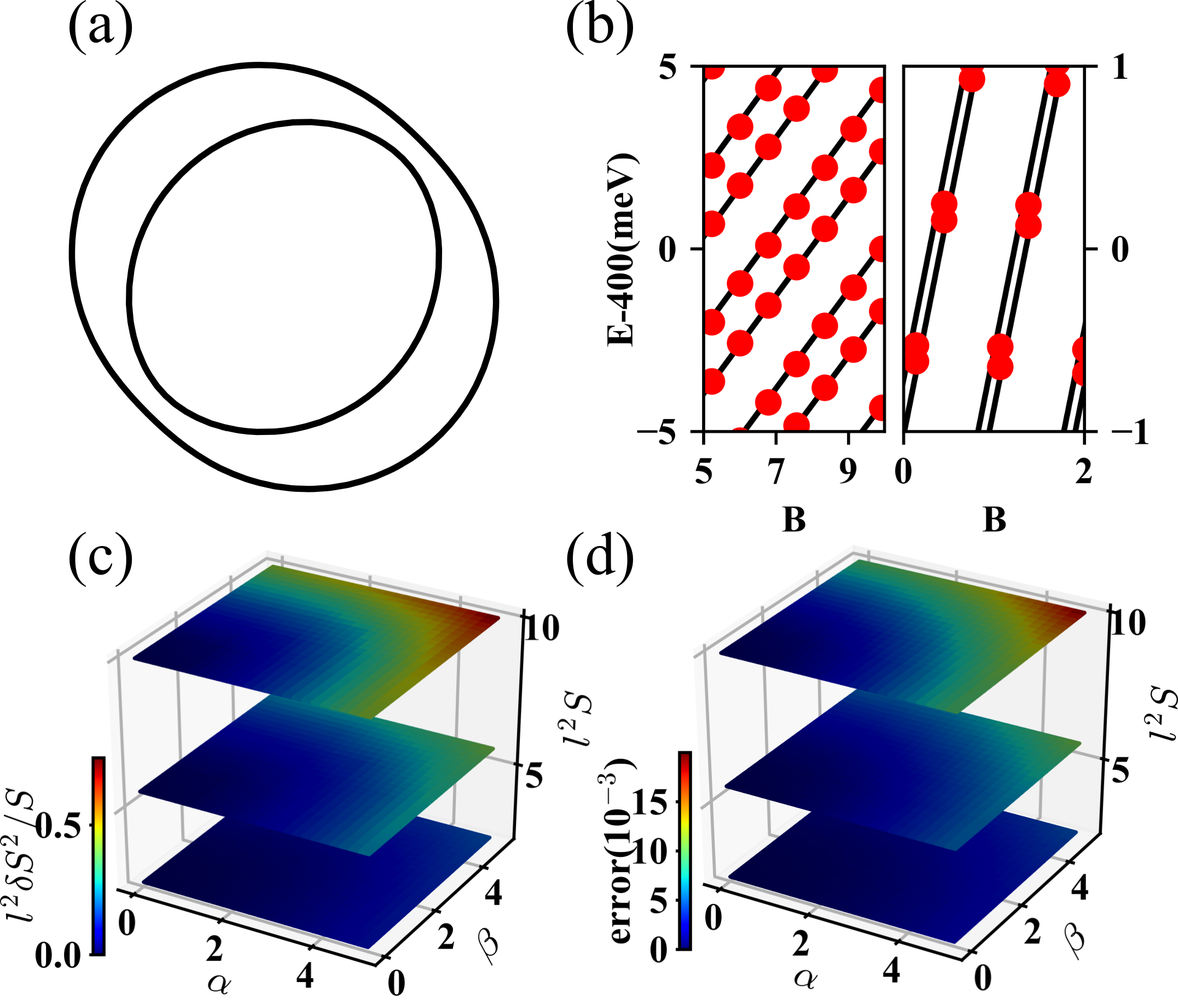
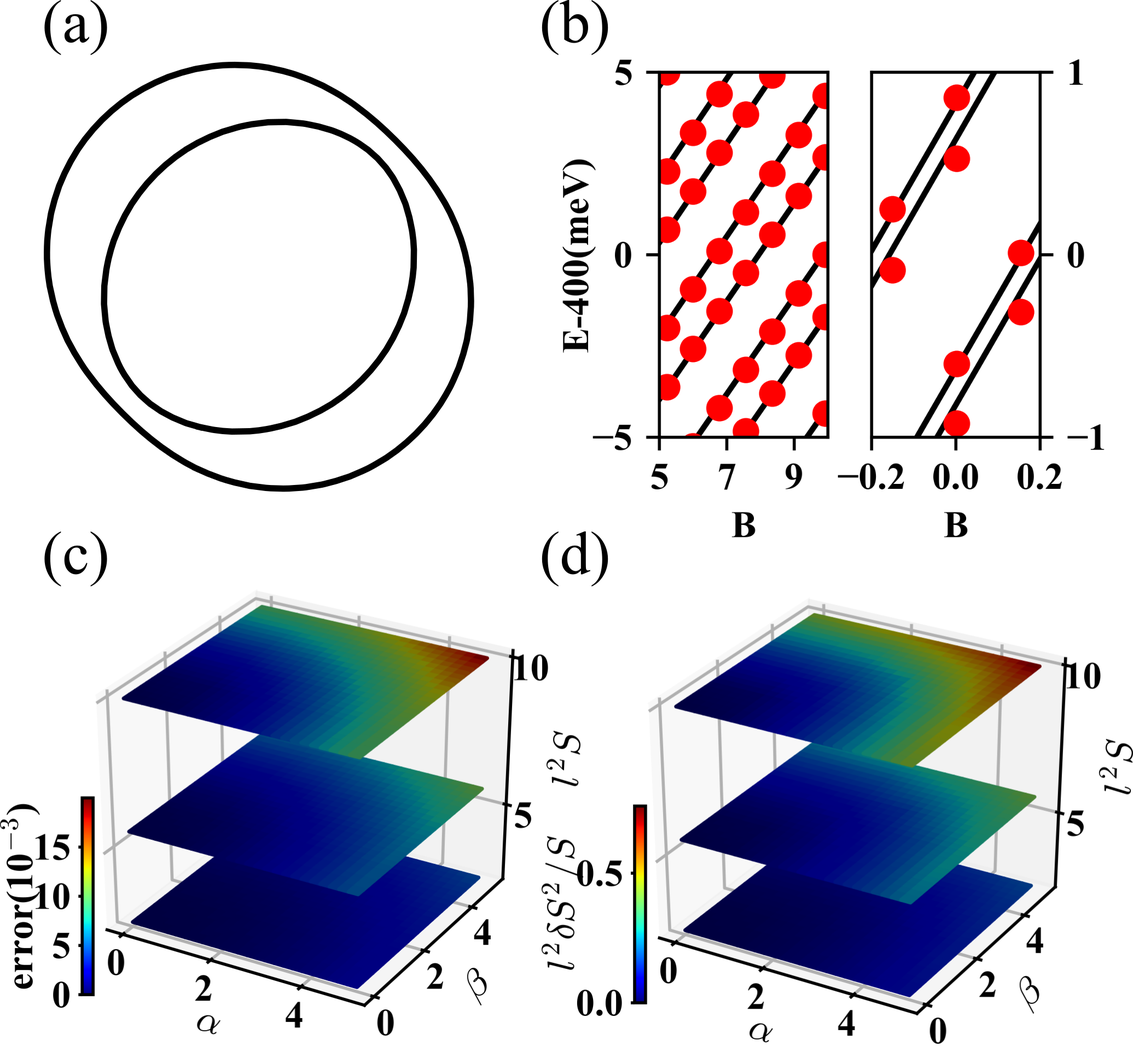
progress

diff --git a/paper.tex b/paper.tex
@@ -49,26 +49,26 @@ Department of Physics, Yale University, New Haven, Connecticut 06520, USA}
 
 %In this work, we study quasidegenerate orbits and formulate Bohr-Sommerfield quantization rule for them. We find the tunneling between the orbits can be described by a propagator and compare the quantization rule to Landau levels from exact diagonalization. Finally, we discuss experimental signatures of such tunneling.
 
-In the absence of magnetic breakdown, semiclassical quantization rules are well-known for Landau levels of  both nondegenerate [Onsager, Lifshitz] and degenerate [Roth, Mikitik, Topoferm, 100page] energy bands.  Our work generalizes these rules to nearly-degenerate bands, whose orbits are split in $\bk$-space with a differential area  $\delta S$ that is much less than the average area $S$ of the orbits; we shall refer to $\delta S/S{\ll}1$ as the \textit{quasidegeneracy} condition. Quasidegenerate orbits commonly originate from spin-orbit-splitting of energy bands in noncentrosymmetric solids. We provide an illustrative model of  a 2DEG with Rashba spin-orbit coupling:
+In the absence of magnetic breakdown, semiclassical quantization rules are well-known for Landau levels of  both nondegenerate [Onsager, Lifshitz] and degenerate [Roth, Mikitik, Topoferm, 100page] energy bands. Our work generalizes these rules to nearly-degenerate bands, whose orbits are split in $\bk$-space with a differential area  $\delta S$ that is much less than the average area $S$ of the orbits; we shall refer to $\delta S/S{\ll}1$ as the \textit{quasidegeneracy} condition. Quasidegenerate orbits commonly originate from spin-orbit-splitting of energy bands in noncentrosymmetric solids. We provide an illustrative model of  a 2DEG with Rashba spin-orbit coupling:
 \begin{equation}
 H_R=\frac{{\hbar^2} k^2}{2m}+\alpha  (k_{x}\sigma_{y}-k_{y}\sigma_{x}).\label{eq:Rashba-Hamiltonian}
 \end{equation}
-At energies much greater than $m\alpha^2$, the differential area of the two spin-orbit-split orbits [see Fig. \ref{fig:orbits}(a)] is much smaller than their average area:\footnote{The expressions for $\delta S$ and $S$ in \q{deltaSvsS} are asymptotically valid  for $E{\gg}m\alpha^2$.}
-\e{\delta S = 2\pi k_E \f{2\alpha m}{\hbar} \ll  S =\pi k_E^2; \;\; k_{E}:=\f{\sqrt{2m E}}{\hbar} .\la{deltaSvsS}}
+At energies much greater than $m\alpha^2$, the differential area of the two spin-orbit-split orbits [see Fig. \ref{fig:orbits}(a)] is much smaller than their average area:\footnote{The expressions for $\delta S$ and $S$ in \q{deltaSvsS} are asymptotically valid for $E{\gg}m\alpha^2$.}
+\e{\delta S = 2\pi k_E \f{2\alpha m}{\hbar^2} \ll S =\pi k_E^2; \;\; k_{E}:=\f{\sqrt{2m E}}{\hbar} .\la{deltaSvsS}}
 $S$ is equivalently the area of the circular, constant-energy contour in the absence of spin-orbit coupling ($\alpha{=}0$).
 
-Throughout this work we will treat both $\delta S/S$ and $1/l^2S$  as small parameters with finite ratio $l^2\delta S$ \textbf{[define magnetic length]}. Our perspective diverges from and generalizes previous semiclassical theories [Kohn, Blount, Roth, Wannier, Fredkin, Niu, Mikitik, topoferm, 100page] having only a single small parameter ($B$).  
+Semiclassical quantization rules work in semiclassical regime where magnetic length $l=\sqrt{\hbar/eB}$ is much larger than characteristic length of cyclotron motion in $\bk$-space, i.e., $1/l^2 S\ll 1$. This condition is assumed by previous semiclassical theories. [Kohn, Blount, Roth, Wannier, Fredkin, Niu, Mikitik, topoferm, 100page] As a generalization, we will treat $\delta S/S$ as an extra small parameters throughout this work with finite ratio $l^2\delta S$. 
 
 $(l^2\delta S)^{-1}$ is a measure of the field-induced hybridization of the quasidegenerate orbits, and shall be called the hybridization parameter. 
-In the regime that $l^2\delta S$ is much greater than the Zeeman interaction, we expect that the Onsager-Lifshitz quantization rules apply independently to the two concentric (but decoupled) orbits. In the opposite regime, we should recover the known quantization rule for degenerate orbits. [topoferm, 100p, roth, mikitik] Our goal is to present a unifying rule that interpolates smoothly between the two known regimes.
+In the regime that $l^2\delta S$ is much greater than the Zeeman interaction \red{[Zeeman interaction? Why not just 1.]}, we expect that the Onsager-Lifshitz quantization rules apply independently to the two concentric (but decoupled) orbits. In the opposite regime, we should recover the known quantization rule for degenerate orbits. [topoferm, 100p, roth, mikitik] Our goal is to present a unifying rule that interpolates smoothly between the two known regimes.
 
 \section{Quantization Rule\label{sec:qtznrules}}
 
-Let us heuristically argue for the form of such a rule; a more pedagogical and rigorous approach is elaborated in App. \ref{app:quantizationruleproof}. We consider independent electrons described (at zero field) by a translation-invariant Hamiltonian: $\hat{H}_0{+}\delta \hat{H}$. This decomposition is such that energy bands of $\hat{H}_0$ are $D$-fold degenerate at every crystal wavevector $\bk$, while $\delta \hat{H}$ is a weak perturbation that lifts this degeneracy at generic $\bk$. For conceptual simplicity, we focus on $D{=}2$ spin degeneracy, and postpone the general formulation for $D{\geq}2$ to Appendix \ref{app:quantizationruleproof}.  $\hat{H}_0$ is commonly exemplified by  the Schr\"odinger Hamiltonian, and $\delta H$ by a non-centrosymmetric spin-orbit interaction; alternatively, $\hat{H}_0$ may be a centrosymmetric Pauli Hamiltonian (complete with spin-orbit coupling), while $\delta H$ describes a lattice deformation that breaks the spatial-inversion symmetry.  
+Let us heuristically argue for the form of such a rule; a more pedagogical and rigorous approach is elaborated in App. \ref{app:quantizationruleproof}. We consider independent electrons described (at zero field) by a translation-invariant Hamiltonian: $\hat{H}_0{+}\delta \hat{H}$. This decomposition is such that energy bands of $\hat{H}_0$ are $D$-fold degenerate at every crystal wavevector $\bk$, while $\delta \hat{H}$ is a weak perturbation that lifts this degeneracy at generic $\bk$. For conceptual simplicity, we focus on $D{=}2$ spin degeneracy, and postpone the general formulation for $D{\geq}2$ to App. \ref{app:quantizationruleproof}.  $\hat{H}_0$ is commonly exemplified by  the Schr\"odinger Hamiltonian, and $\delta H$ by a non-centrosymmetric spin-orbit interaction; alternatively, $\hat{H}_0$ may be a centrosymmetric Pauli Hamiltonian (with spin-orbit coupling), while $\delta H$ describes a lattice deformation that breaks the spatial-inversion symmetry.  
 
 % The quantum theory of a Bloch electron in a magnetic field is based on the noncommutivity of the kinematic quasimomentum operators:[onsager, lifshitz]
 
-Let us apply a magnetic field, and first consider the spin-degenerate Landau levels obtained by neglecting both $\delta H$ and the Zeeman splitting. In the  semiclassical description,  we are interested in  field-induced dynamics within a low-energy degenerate band of $\hat{H}_0$ with  dispersion $\var(\bk)$, e.g., $\var(\bk){=}\hbar^2 \bk^2/2m{+}O(k^4)$ in the Rashba model.    Landau quantization is well-known to derive from the Peierls substitution $\var(\bk){\rightarrow}\var(\bK)$,[Peierls] with   the kinematic quasimomentum operator   $\boldsymbol{K}{:}{=}\boldsymbol{k}{+}(e/\hbar) \boldsymbol{A}(i\nabla_{\boldsymbol{k}})$ and $\boldsymbol{A}(\br)$ being the electromagnetic vector potential. Assuming that the field is aligned in the ${-}z$ direction, $[K_x,K_y]{=}i\lmt$ with the magnetic length $l{:}{=}\sqrt{\hbar/{eB}}$. The semiclassical solution corresponds to  cyclotron revolutions of an electron around a constant-energy contour of $\var(\bk)$ [see Fig. \ref{fig:orbits}(b)]]; this contour, equipped with an orientation given by the equation of motion ($ \hbar dk_{\alpha}/dt {=} \lmt \epsilon_{\ab}\partial \var/\partial k_{\beta} $, with $\epsilon_{xy}{=}{-}\epsilon_{yx}{=}1$), shall be referred as the zeroth-order orbit $\frako_0$.  In this work, we focus only on closed orbits which do not wrap 
+Let us apply a magnetic field, and first consider the spin-degenerate Landau levels obtained by neglecting both $\delta H$ and the Zeeman splitting. In the  semiclassical description,  we are interested in  field-induced dynamics within a low-energy degenerate band of $\hat{H}_0$ with  dispersion $\var(\bk)$, e.g., $\var(\bk){=}\hbar^2 k^2/2m{+}\order(k^4)$ \red{[What is contained in this $\order(k^4)$?]}in the Rashba model.    Landau quantization is well-known to derive from the Peierls substitution $\var(\bk){\rightarrow}\var(\bK)$, [Peierls] with the kinematic quasimomentum operator   $\boldsymbol{K}{:}{=}\boldsymbol{k}{+}(e/\hbar) \boldsymbol{A}(i\nabla_{\boldsymbol{k}})$ and $\boldsymbol{A}(\br)$ being the electromagnetic vector potential. Assuming that the field is aligned in the ${-}z$ direction, $[K_x,K_y]{=}i\lmt$. The semiclassical solution corresponds to  cyclotron revolutions of an electron around a constant-energy contour of $\var(\bk)$ [see Fig. \ref{fig:orbits}(b)]]; this contour, equipped with an orientation given by the equation of motion ($ \hbar dk_{\alpha}/dt {=} \lmt \epsilon_{\ab}\partial \var/\partial k_{\beta} $, with $\epsilon_{xy}{=}{-}\epsilon_{yx}{=}1$), shall be referred as the zeroth-order orbit $\frako_0$.  In this work, we focus only on closed orbits which do not wrap 
 non-contractibly around the Brillouin torus.
 
 %(in $\bk$ space)  defined at zero spin-orbit coupling [$\alpha{=}0$; see Fig. \ref{fig:orbits}(b)]. This cyclotron motion obeys the equation of motion:  $ \hbar dk_{\alpha}/dt = \lmt \epsilon_{\ab}\partial \var/\partial k_{\beta} $, with $\epsilon_{xy}{=}{-}\epsilon_{yx}{=}1$. The spin-orbit-free band contour, equipped with an orientation given by the equation of motion, shall be referred as the zeroth-order orbit $\frako_0$. In this work, we focus only on orbits which are closed, i.e., orbits that do not cross the Brillouin-zone edge.
@@ -81,7 +81,7 @@ Here, $\var_c$ and $T_c$ are respectively the cyclotron energy and period of the
 
 %rather than the ever-present macroscopic degeneracy associated to the cyclotron motion of a single species of fermions. 
 
-To the first order, $\delta H$ and the Zeeman interaction  induce a subleading phase offset ($\lambda_a$) which generically differs for the two orthogonal spinor states (labelled $a{=}1,2$):
+To the first order, $\delta \hat{H}$ and the Zeeman interaction induce a subleading phase offset ($\lambda_a$) which generically differs for the two orthogonal spinor states (labelled $a{=}1,2$):
 \begin{equation}
 l^2S(E)+\lambda_a(E,B)+\gamma=2\pi n,\as  n\in \mathbb{Z},\;a=1,2. \label{eq:rule}
 \end{equation}
@@ -94,17 +94,17 @@ with $\bk(t){\in}\frako_0$ a periodic function determined by the semiclassical e
 \begin{equation}
   \calh=\delta \var +B\bigg(M_z -g_s\mu_{B}\f{s_z}{\hbar} + e\epsilon_{\alpha\beta}\mathfrak{X}_{\beta}v_{\alpha}\bigg):=\delta \var+B\calm,\label{eq:H1}
 \end{equation}
-$\delta \var$ is the projection of $\delta H$ to the quasidegenerate band associated to $\var(\bk)$, e.g., $\delta \var{=}\alpha(k_x\sigma_y{-}k_y\sigma_x)$ in the Rashba model. In the basis of energy-split bands (which we label by  ${+}$ and $-$ for the outer and inner orbit respectively),\footnote{We remark that the quantization rule is invariant under basis transformations within the degenerate band subspace (See App. \ref{app:quantizationruleproof}); this may be exploited for efficient  numerical computations.} $\delta \var$ is a diagonal matrix whose diagonal entries ($\delta \var_+,\delta \var_-$) are related to  the hybridization parameter:\footnote{The neglected term on the right-hand side of  \q{spinsplitwkb} is smaller (than the kept term) by a factor $\delta v_{\pm}/v$, which is the relative change in band speed $v=|\boldsymbol{v}|=\hbar^{-1}|\partial \var/\partial \bk|$ induced by the spin-orbit coupling. This factor is assumed to be small.  For example in the Rashba model, $\delta v_{\pm}/v=m\alpha/\hbar k_E{\sim}\delta S/S{\ll}1$.}   
-\e{\int_0^{T_c} (\delta \var_+{-}\delta \var_-) \frac{dt}{\hbar} \approx l^2\delta S. \la{spinsplitwkb}}
+$\delta \var$ is the projection of $\delta H$ to the quasidegenerate band associated to $\var(\bk)$, e.g., $\delta \var{=}\alpha(k_x\sigma_y{-}k_y\sigma_x)$ in the Rashba model. In the basis of energy-split bands (which we label by  ${+}$ and $-$ for the outer and inner orbit respectively),\footnote{We remark that the quantization rule is invariant under basis transformations within the degenerate band subspace (See App. \ref{app:quantizationruleproof}); this may be exploited for efficient numerical computations.} $\delta \var$ is a diagonal matrix whose diagonal entries ($\delta \var_+,\delta \var_-$, corresponding to outer and inner orbit respectively; $\delta \var_+<\delta \var_-$) are related to the hybridization parameter:\footnote{The neglected term on the right-hand side of  \q{spinsplitwkb} is smaller (than the kept term) by a factor $\delta v_{\pm}/v$, which is the relative change in band speed $v=|\boldsymbol{v}|=\hbar^{-1}|\partial \var/\partial \bk|$ induced by the spin-orbit coupling. This factor is assumed to be small.  For example in the Rashba model, $\delta v_{\pm}/v=m\alpha/\hbar k_E{\sim}\delta S/S{\ll}1$.}   
+\e{-\int_0^{T_c} (\delta \var_+{-}\delta \var_-) \frac{dt}{\hbar} \approx l^2\delta S. \la{spinsplitwkb}}
 %In the  Rashba model,   $\delta \var_{\pm}(E){=}{\pm} (\alpha/\hbar)\sqrt{2mE}$ is independent of $\bk$ due to a continuous rotational symmetry of $H_R$. \\
 
 %the wavepacket;  $g_s{\approx}2$ is the free-electron $g$-factor and $\mu_B$ the Bohr magneton.[100page] 
 %Spin in $z$ direction is represented by $s_z=\hbar\sigma_z/2$ \textbf{[detail]}.
 
 
-The remaining terms in \q{eq:H1} describe a generalized Zeeman interaction $B\calm$ which is the first-order-in-$B$ correction to the Peierls-Onsager Hamiltonian $\var(\bK)$.[kohn,blount,roth] Included in this interaction is the Zeeman coupling to the spin ($g_s\mu_Bs_z/\hbar$) and orbital ($M_z$) magnetic moment of the quasidegenerate band; the latter  is expressible in terms of matrix elements of the velocity operator \textbf{[please insert definition of v from below eq 3 in topoferm]}:
+The remaining terms in \q{eq:H1} describe a generalized Zeeman interaction $B\calm$ which is the first-order-in-$B$ correction to the Peierls-Onsager Hamiltonian $\var(\bK)$.[kohn,blount,roth] Included in this interaction is the Zeeman coupling to the spin ($g_s\mu_Bs_z/\hbar$) and orbital ($M_z$) magnetic moment of the quasidegenerate band; the latter is expressible in terms of matrix elements of the velocity operator $\boldsymbol{\Pi}$ between Bloch wave functions $\psi_{n\bk}$ $\boldsymbol{\Pi}_{mn}=i\langle\psi_m|[\hat{H}, \hat{\boldsymbol{r}}]|\psi_n\rangle/\hbar$:
 \e{
-M_z=\f{ie\hbar}{2}\sum_l'\f{v_{x,ml}v_{y,ln}-v_{y,ml}v_{x,ln}}{\epsilon_m-\epsilon_l}. \la{eq:orbitalmoment}
+M_z=\f{ie\hbar}{2}\sum_l'\f{\Pi_{x,ml}\Pi_{y,ln}-\Pi_{y,ml}\Pi_{x,ln}}{\epsilon_m-\epsilon_l}. \la{eq:orbitalmoment}
 }
 Here, the summation in $l$ does not include the two quasidegenerate bands.  There is finally a geometric contribution to the Zeeman interaction, which involves the two-by-two non-Abelian Berry connection  as well as the  zeroth-order band velocity: 
 \e{\mathfrak{X}_{\beta,mn}{=}i\braket{u_m}{\partial u_n/\partial k_{\beta}},  \;\;v_{\alpha}:= \red{\f{1}{\hbar}}\p{\var}{k_{\alpha}},\la{berryconn}}
@@ -112,7 +112,7 @@ with $\{u_n\}_{n=1}^2$ the periodic component of Bloch functions in the quasideg
 %which provides a geometric characterization of band wavefunctions along $\frako_0$.\\
 %All matrix elements in \qq{eq:prop}{eq:orbitalmoment} are evaluated with wavefunctions of $\hat{H}_0$. 
 
-\qq{eq:rule}{berryconn} allow us to determine $\lambda_{1,2}$ to the lowest order  in $1/l^2S$ and $\delta S/S$, and for arbitrary values of $l^2\delta S$ and $||B\calm||/\delta \var_{\pm}$.
+\qq{eq:rule}{berryconn} allow us to determine $\lambda_{1,2}$ to the lowest order  in $1/l^2S$ and $\delta S/S$, and for arbitrary values of $l^2\delta S$ and $|B\calm|/\delta \var_{\pm}$.
 
 %It will be useful to separate $B$-independent and $B$-dependent terms in \q{eq:H1}; the latter we denote as $B\calm$, with $\calm$ having the dimension of a magnetic moment. Let us explain each term in the order of its appearance.\\
 
@@ -132,7 +132,7 @@ It is useful to compare $\delta \var$ with $B\calm$ in the basis of energy-split
 
 \noi{i} If $|\var_+{-}\var_-|$ is everywhere (along $\frako_0$) much greater than $B|\calm_{+-}|$, then an electron would undergo adiabatic (band-conserving) dynamics[nenciu] along two independent, nondegenerate orbits. Such an adiabatic regime always exists as $B{\rightarrow} 0$ for quasidegenerate orbits that do not intersect, e.g, at a type-II Dirac point, which is the subject of the case studies in \s{sec:inplanezeeman} and \s{sec:rotsymmbreakdown}.
 By  neglecting  $B\calm_{+-}$ in favor of intraband elements,  $\cala$ reduces to a diagonal matrix with  diagonal entries ($e^{i\lambda_{\pm}}$) given by:
-\e{\lambda_{\sma{\pm}} = \int_0^{T_c}\calh_{\sma{\pm\pm}}dt=\pm \tf1{2}l^2\delta S +B\int_0^{T_c}\calm_{\sma{\pm\pm}}dt.  \la{phaseindependentorbit}} 
+\e{\lambda_{\sma{\pm}} = -\int_0^{T_c}\calh_{\sma{\pm\pm}}\f{dt}{\hbar}=\pm \f{1}{2}l^2\delta S - B\int_0^{T_c}\calm_{\sma{\pm\pm}}\f{dt}{\hbar}.  \la{phaseindependentorbit}} 
 In the second equality, we have applied \q{spinsplitwkb} and assumed that 
  $\delta \var$ is traceless (this assumption is  valid for splittings of a spin degeneracy\footnote{The Pauli spin-orbit coupling term ${\propto} \bs{\cdot} (\bE {\times} \bp)$ (that is derived from the non-relativistic limit of the Dirac equation) is  traceless in any spin-symmetric  (pseudo-)spinor basis.  Viewing the spin-orbit coupling as a small parameter in degenerate perturbation theory, the lowest-order splitting of any spin-degenerate energy level is always symmetric about the zeroth-order energy. This follows because the zeroth-order, spin-symmetric wavefunctions (associated to a spin-degenerate level) are tensor products of spin and spatial wavefunctions: $\ket{\Psi_{\pm}}{:}{=}\ket{{\pm}\hat{n}}{\otimes} \ket{\psi}$ with $\hat{n}$ a unit vector and  $\bs{\cdot} \hat{n} \ket{{\pm}\hat{n}}{=}{\pm}\ket{\pm \hat{n}}$. Hence, $\braopket{\Psi_{\pm}}{\bs{\cdot} (\bE {\times} \bp)}{\Psi_{\pm}}{=}{\pm}\hat{n}\cdot\braopket{\psi}{\bE {\times} \bp}{\psi}$. \textbf{Please generalize above proof to the case where H0 already includes centrosymmetric SOC. }}).  \q{eq:rule}, combined with \q{phaseindependentorbit}, may be identified as the Onsager-Lifshitz rule[onsager,lifshitz] for  two independent, nondegenerate orbits of areas $S{\pm}\delta S$, and with subleading phase corrections that were first identified by Roth[rothII].\footnote{We remark that \q{phaseindependentorbit} neglects the contribution by band $-$ to the orbital moment of band $+$: $\delta M_z=il^{-2}\epsilon_{\ab}(\delta \var_+-\delta \var_-)\mathfrak{X}^{\alpha}_{+-}\mathfrak{X}^{\beta}_{-+}$. $\mathfrak{X}^{\alpha}_{+-}$, being an off-diagonal matrix element of the position operator, is generically of order a lattice constant $a$. We then estimate $\int_0^{T_c} B\delta M_z dt/\hbar=O(a^2 \delta S )$, which is negligible compared to $l^2\delta S/2$. Note also that the single-band orbital moment simply vanishes in some symmetry classes of orbits.[100page] } The perturbative inclusion of $B\calm_{\sma{+-}}$ results in  a correction to $\lambda_{\pm}$ [cf.\ \q{phaseindependentorbit}] that is expressible as a power series in $B$, with a leading term proportional to $B$; this will be confirmed in a subsequent case study [cf.\ \q{lambdasmallB}] and applied to understand beatings in quantum-oscillatory phenomena in  \s{sec:qo}.    \\
 
@@ -192,24 +192,24 @@ In \s{sec:llquasideg}, we investigate how many real parameters are required to t
 We will first apply our rule to the Landau levels of the Rashba model [cf.\ \q{eq:Rashba-Hamiltonian}], for which analytic expressions exist for verification; shortly after we will demonstrate the utility of our quantization rule for the 2DEG with both Rashba and Dresselhaus spin-orbit interactions, for which there exists no known analytic closed-form solution. 
 
 For simplicity, we assume that the Pauli matrices in \q{eq:Rashba-Hamiltonian} correspond to spin: $s_i{=}\hbar \sigma_i/2$. Let us evaluate the effective Hamiltonian $\calh(\bk)$  along the cyclotron trajectory $\frako_0$ with radius $k$. In the  energy basis of the Rashba Hamiltonian $H_R$ [cf.\ \q{eq:Rashba-Hamiltonian}], 
-\e{\calh(\bk)=\alpha k\tau_z{+}\f{g_s}{2}\mu_{\sma{B}}B\tau_x \red{-} \f{eB\red{\hbar}}{2m} (\tau_x-I) \epsilon_{\alpha\beta} k_{\red{\alpha}}\nabla_{\red{\beta}}\theta,\la{rashbaeffham}}
+\e{\calh(\bk)=-\alpha k\tau_z{+}\f{g_s}{2}\mu_{\sma{B}}B\tau_x \red{-} \f{eB\hbar}{2m} (\tau_x-I) \epsilon_{\alpha\beta} k_{\red{\alpha}}\nabla_{\red{\beta}}\theta,\la{rashbaeffham}}
 where $\tau_i$ are a new set of Pauli matrices with $\tau_z{=}{+} 1$ and ${-}1$ corresponding to the outer and inner orbits, respectively \red{[I switched the sign in the equation above to emphasize the sign difference.]}. $e^{i\theta_{\bk}}{=}(ik_x{-}k_y)/k$ is the angle of the in-plane spin-orbit field $({-}\alpha k_y,\alpha k_x,0)$, which winds once over $\frako_0$; the spin of our basis vectors likewise winds, in parallel (or anti-parallel) alignment with this field (see Fig. (\ref{fig:orbits})(b)). Terms proportional to the rate of spin rotation  ($\nabk \theta$) originate from the  non-abelian Berry connection. The first term of  $\calh$ corresponds to the spin-orbit-induced splitting of the energy-degenerate bands;
-the remaining terms may be interpreted as B-induced deformations of the bands.   It is well-known that the Zeeman term tends to polarize spin in the direction ($\vec{z}$) of $\bB$; remarkably, the non-abelian Berry term   also has a polarizing effect, but with opposite sign. These two effects completely cancel for free electrons ($m{=}m_0$), but not generically in band systems. The orbital moment term $B M_z$, which generally couples the two-band subspace (of interest) to all other bands, is absent in any simplified two-band model.
+the remaining terms may be interpreted as B-induced deformations of the bands.   It is well-known that the Zeeman term tends to polarize spin in the direction ($\vec{z}$) of $\bB$; remarkably, the non-abelian Berry term   also has a polarizing effect, but with opposite sign. These two effects completely cancel for free electrons ($m{=}m_0$, with $m_0$ being free electron mass.), but not generically in band systems. The orbital moment term $B M_z$, which generally couples the two-band subspace (of interest) to all other bands, is absent in any simplified two-band model.
 %Observe that  that $\calh$ is actually time-independent, which originates from a  that is unbroken by the field (aligned with the rotational axis). Consequently, 
 
-Due to the continuous rotational symmetry of $H_R$, $\nabk \theta$ has magnitude $1/k$ and lies tangential to $\frako_0$; consequently, $\calh$ is constant along $\frako_0$, and the propagator simplifies to $\cala{=}e^{{-}i\calh T_c}$ without time-ordering, and the phase corrections to the quantization rule are simply the eigenvalues of $\calh$ multiplied by $T_c$:
+Due to the continuous rotational symmetry of $H_R$, $\nabk \theta$ has magnitude $1/k$ and lies tangential to $\frako_0$; consequently, $\calh$ is constant along $\frako_0$, and the propagator simplifies to $\cala{=}e^{{-}i\calh T_c/\hbar}$ without time-ordering, and the phase corrections to the quantization rule are simply the eigenvalues of $\calh$ multiplied by $T_c$:
 \begin{equation}
 \lambda_{\pm}=\pm\f1{2}\sqrt{({l^2\delta S})^2+\pi^2(g_{\sma{\text{eff}}}-2)^2}+\pi. \label{eq:Rashba-lambda}
 \end{equation}
 This is a function of the differential action $\delta S$ [cf.\ \q{deltaSvsS}] and  the effective  $g$-factor ($g_{\sma{\text{eff}}}{:}{=}g_sm/m_0$), which is the free-electron $g$-factor multiplied with the ratio of  effective ($m$) and free-electron ($m_0$) masses. The standalone $\pi$ term is the single-band Berry phase associated to the winding of $\theta_{\bk}$ by ${\pm}2\pi$. The two quantities under the square root originate from the spin-orbit energy splitting $\delta \var$ and the inter-band matrix elements of $B\calm$ (in the basis of zero-field bands). 
 
-In the weak-hybridization regime: $l^2\delta S {>}\pi(g_{\sma{\text{eff}}}{-}2)$, we may expand \q{eq:Rashba-lambda} as a Laurent series in $B$:
-\e{\lambda_{\pm}= \pm \f{l^2\delta S}{2} +\pi \pm \f{\pi^2}{4}\f{(g_{\sma{\text{eff}}}-2)^2}{l^2\delta S} + O(B^2). \la{lambdasmallB}}
+In the weak-hybridization regime: $l^2\delta S  \gg \pi|g_{\text{eff}}{-}2|$, we may expand \q{eq:Rashba-lambda} as a Laurent series in $B$:
+\e{\lambda_{\pm}= \pm \f{l^2\delta S}{2} +\pi \pm \f{\pi^2}{4}\f{(g_{\text{eff}}-2)^2}{l^2\delta S} + O(B^2). \la{lambdasmallB}}
 \q{eq:rule}, combined with the first two terms on the right-hand-side of \q{lambdasmallB}, may alternatively be derived from 
 the standard Onsager-Lifshitz rules for two independent orbits, with a common $\pi$ Berry-phase correction for each orbit:\footnote{The intra-band Zeeman and orbital-moment couplings vanish due spacetime-inversion symmetry.[topoferm]} $l^2(S{\pm}\delta S)/2\pi {\in}\Z$. Higher-order terms in \q{lambdasmallB} reflect the field-induced hybridization of the spin-orbit-split orbits. 
 
 
-In the strong-hybridization regime: $l^2\delta S {\ll}\pi(g_{\sma{\text{eff}}}{-}2)$, $\lambda_{\pm}{\approx}{\pm}\pi g_{\sma{\text{eff}}} /2$ mod $2\pi$, which corresponds to the Zeeman splitting of Landau levels by $g_{s}\mu_BB$, in the \textit{absence} of the spin-orbit interaction. 
+In the strong-hybridization regime: $l^2\delta S {\ll}\pi(g_{\text{eff}}{-}2)$, $\lambda_{\pm}{\approx}{\pm}\pi g_{\text{eff}} /2$ mod $2\pi$, which corresponds to the Zeeman splitting of Landau levels by $g_{s}\mu_BB$, in the \textit{absence} of the spin-orbit interaction. 
 
 %In the case of free electrons ($m{=}m_0$), we recover  an elementary result in quantum mechanics -- that all levels (except the lowest) are spin-degenerate due to the equality of cyclotron and Zeeman energies. 
 
@@ -248,9 +248,9 @@ Our quantization rule equally has utility where no closed-form analytic expressi
 \begin{equation}
  H_{RD}(\bk)=\frac{{\hbar^2}k^2}{2m}+\alpha(k_{x}\sigma_{y}-k_{y}\sigma_{x})+\beta(k_{x}\sigma_{x}-k_{y}\sigma_{y}).\la{hamRD}
 \end{equation}
-In Fig. \ref{fig:RD}(b), a comparison is made between the Landau levels obtained from exact numerical diagonalization of $H_{RD}(\bK)$ (by standard techniques reviewed in App. \ref{sec:numerical}) and those obtained from the quantization rule. The difference in energies  does not exceed $2\%$ of $\var_c$ [cf.\ \fig{fig:RD}(d)] for various choices of the spin-orbit parameters $(\alpha,\beta)$.
+In Fig. \ref{fig:RD}(b), a comparison is made between the Landau levels obtained from exact numerical diagonalization of $H_{RD}(\bK)$ (by standard techniques reviewed in App. \ref{sec:numerical}) and those obtained from the quantization rule. The difference in energies  does not exceed $2\%$ of $\var_c$ [cf.\ \fig{fig:RD}(c)] for various choices of the spin-orbit parameters $(\alpha,\beta)$.
 Larger differences are positively correlated with 
-$l^2\delta S^2/S$ (with $\delta S$ depending on both $\alpha$ and $\beta$), as shown in Fig. \ref{fig:RD}(c); see also \q{eq:Rashba-exact}, which analytically demonstrates how terms involving $l^2\delta S^2/S$ modifies the quantization rule in the case $\beta=0$. 
+$l^2\delta S^2/S$ (with $\delta S$ depending on both $\alpha$ and $\beta$), as shown in Fig. \ref{fig:RD}(d); see also \q{eq:Rashba-exact}, which analytically demonstrates how terms involving $l^2\delta S^2/S$ modifies the quantization rule in the case $\beta=0$. 
 
 In \s{sec:llquasideg} we will further motivate the study of $H_{RD}$ by investigating the prevalence of Landau-level degeneracies. 
 
@@ -272,7 +272,7 @@ In \s{sec:llquasideg} we will further motivate the study of $H_{RD}$ by investig
 % alpha=0.05
 % beta=0.02
 % m=0.01
-\caption{Rashba-Dresselhaus model. (a) Typical cyclotron orbits. (b) Comparison of Landau levels calculated by Eq. (\ref{eq:rule}) (black lines) and numerical diagonalization of the Peierls-Onsager Hamiltonian  $H_{RD}(\bK)$ (red dots). Parameters: $\alpha=0.05$(eV$\cdot$\AA), $m=0.01$($\hbar^2$/eV$\cdot$\AA$^2$), $\beta=0.02~(0.04)$(eV$\cdot$\AA) for left (right) panels. $B$ is measured from 2.9 and 1.6T respectively and is in unit $10^{-2}$T. (c-d) For various spin-orbit parameters $(\alpha,\beta)$ of the Rashba-Dresselhaus model and various field strength (satisfying $l^2S(E)\gg 1$), we plot in (c) the hybridization parameter $l^2\delta S(E)$ for fixed energy $(E=0.4$eV${\gg}m\alpha^2)$. For a single Landau level that lies closest to the chosen $E$, we plot in (d) $\text{error}:=|\epsilon_\text{rule}-\epsilon_\text{exact}|/\var_c$, where $\epsilon_\text{rule}$ is determined by Eq. (\ref{eq:rule}) and $\epsilon_{\text{exact}}$ is obtained by numerical diagonalization of the Peierls-Onsager Hamiltonian  $H_{RD}(\bK)$. Parameters: $m=0.01$($\hbar^2$/eV$\cdot$\AA$^2$). Units: $\alpha$($10^{-2}$eV$\cdot$\AA), $\beta$($10^{-2}$eV$\cdot$\AA), $Z$($10^{-3}$eV), $l^2 S$($10^2$).\label{fig:RD}}
+\caption{Rashba-Dresselhaus model. (a) Typical cyclotron orbits. (b) Comparison of Landau levels calculated by Eq. (\ref{eq:rule}) (black lines) and numerical diagonalization of the Peierls-Onsager Hamiltonian  $H_{RD}(\bK)$ (red dots). Parameters for (b): $\alpha=0.05$(eV$\cdot$\AA), $m=0.01$($\hbar^2$/eV$\cdot$\AA$^2$), $\beta=0.02~(0.04)$(eV$\cdot$\AA) for left (right) panels. $B$ is measured from 2.9 and 1.0T respectively and is in unit $10^{-2}$T. (c) For various spin-orbit parameters $(\alpha,\beta)$ of the Rashba-Dresselhaus model and various field strength (satisfying $l^2S(E)\gg 1$), we plot  $\text{error}:=|\epsilon_\text{rule}-\epsilon_\text{exact}|/\var_c$ for a single Landau level that lies closest to energy $E=0.4eV$, where $\epsilon_\text{rule}$ is determined by Eq. (\ref{eq:rule}) and $\epsilon_{\text{exact}}$ is obtained by numerical diagonalization of the Peierls-Onsager Hamiltonian  $H_{RD}(\bK)$. We also plot in (d) $l^2\delta S^2/S$, which has a strong positive relation with error in (c). Parameters for (c-d): $m=0.01$($\hbar^2$/eV$\cdot$\AA$^2$). Units: $\alpha$($10^{-2}$eV$\cdot$\AA), $\beta$($10^{-2}$eV$\cdot$\AA), $Z$($10^{-3}$eV), $l^2 S$($10^2$).\label{fig:RD}}
 \end{figure}
 
 \subsection{Rashba 2DEG with in-plane Zeeman field}\la{sec:inplanezeeman}
@@ -298,7 +298,7 @@ When $|\hbar^2\zpar|>|m\alpha^2|$, the Dirac cone tilts over in the $x$ directio
 
 \begin{figure}
 \includegraphics[width=1.0\columnwidth]{RZ.png}
-\caption{(a) Trefoille-shaped cyclotron orbit for the Rashba-Zeeman model at the energy of the Dirac point. The orbit is drawn over the  {spin-orbit field} ($d_x,d_y$) of the Hamiltonian $H_{RZ}{=}d_0(\bk)I{+}d_x(\bk)\sigma_x{+}d_y(\bk)\sigma_y$, with $d_j$ obtainable from \q{eq:RZ-Hamiltonian}. The wavefunction along the inner (resp.\ outer) component of the trefoille orbit has its pseudospin aligned parallel (resp.\ anti-parallel) to the spin-orbit field. (b) Black dashed lines illustrate a zeroth-order approximation of the Landau levels (assuming Klein tunneling); the leading-order correction is indicated by red lines. The Dirac point lies at $10$meV, at which energy first order correction vanishes in Eq. (\ref{RZfirstorderE}). Parameters: $m$: 0.02$\hbar^2$/eV$\cdot$\AA$^2$, $\alpha$: 0.05eV$\cdot$\AA, $Z_\parallel$: 0.001eV. (c) For various configuration ($\alpha$, $Z_\parallel$) of $H_{RZ}$, we plot in (c) the hybridization parameter $l^2S(E)$ where $E$ is chosen as the energy of the Landau level nearest to the type-II Dirac point, i.e., closest to $\epsilon_0$ in Eq. (\ref{whereisdiracpoint}). We only plotted in region where $0.4<\epsilon_0<1.0$(eV).\red{[Note to Aris: the reason of choosing $\epsilon_0>0.4$ is I want to make sure $l^2S\gg 1$; the reason of choosing $\epsilon_0<1.0$ is Dirac point lying at high energy requires too much harmonics in numerical diagonalization. This requirement is equivalent to $\sqrt{0.8m}\alpha/\hbar<Z<\sqrt{2m}\alpha/\hbar$, corresponding to the boundaries of the plot in (c) and (d).]} (d) $\text{error}:=|\epsilon_\text{rule}-\epsilon_\text{exact}|/\var_c$ corresponding to the parameter configurations in (c), where $\epsilon_\text{rule}$ is determined by Eq. (\ref{eq:rule}) and $\epsilon_{\text{exact}}$ is obtained by numerical diagonalization of the Peierls-Onsager Hamiltonian $H_{RZ}(\bK)$. Parameters: $m$: 0.01$\hbar^2$/eV$\cdot$\AA$^2$, $l=100$\AA. \label{fig:RZ}}
+\caption{(a) Trefoille-shaped cyclotron orbit for the Rashba-Zeeman model at the energy of the Dirac point. The orbit is drawn over the  {spin-orbit field} ($d_x,d_y$) of the Hamiltonian $H_{RZ}{=}d_0(\bk)I{+}d_x(\bk)\sigma_x{+}d_y(\bk)\sigma_y$, with $d_j$ obtainable from \q{eq:RZ-Hamiltonian}. The wavefunction along the inner (resp.\ outer) component of the trefoille orbit has its pseudospin aligned parallel (resp.\ anti-parallel) to the spin-orbit field. (b) Black dashed lines illustrate a zeroth-order approximation of the Landau levels (assuming Klein tunneling); the leading-order correction is indicated by red lines. The Dirac point lies at $10$meV. Parameters for (b): $m$: 0.02$\hbar^2$/eV$\cdot$\AA$^2$, $\alpha$: 0.05eV$\cdot$\AA, $Z_\parallel$: 0.001eV. (c) A sketch of cyclotron orbits of Rashba Hamiltonian with in-plane magnetic field. (d) For various configurations ($\alpha$, $Z_\parallel$) of $H_{RZ}$, we plot in left panel $\text{error}:=|\epsilon_\text{rule}-\epsilon_\text{exact}|/\var_c$ for a single Landau level that is closest to $\epsilon_0$ in Eq. (\ref{whereisdiracpoint}), where $\epsilon_\text{rule}$ is determined by Eq. (\ref{eq:rule}) and $\epsilon_{\text{exact}}$ is obtained by numerical diagonalization of the Peierls-Onsager Hamiltonian $H_{RZ}(\bK)$. Corresponding $l^2 \delta S^2/S$ are plotted in right panel. We only plotted in region where $0.4<\epsilon_0<1.0$(eV).\footnote{$l^2S\gg 1$ is assured by requiring $\epsilon_0>0.4$; the reason of choosing $\epsilon_0<1.0$ is Dirac point lying at high energy requires too much harmonics in numerical diagonalization. This requirement is equivalent to $\sqrt{0.8m}\alpha/\hbar<Z<\sqrt{2m}\alpha/\hbar$, corresponding to the boundaries of the plots in (d).} Parameters for (d): $m$: 0.01$\hbar^2$/eV$\cdot$\AA$^2$, $l=100$\AA. \label{fig:RZ}}
 \end{figure}
 
 In addition to the in-plane field, let us also apply an out-of-plane field $B_{\perp}$, with associated magnetic length $\lper{=}\sqrt{\hbar/eB_{\perp}}$, cyclotron energy $\var^{\sma{\perp}}_c{:}{=}\hbar^2/m\lper^2{:}{=}\hbar \omega_c^{\sma{\perp}}{:}{=}h/T_c^{\sma{\perp}}$ and Zeeman coupling to the spin magnetic moment:  $\zper{:}{=}{g_s}\mu_B B_{\perp}/2$. It is assumed that $\lper^2S$ is large, where $S$ is the area of the zeroth-order orbit (with effective mass $m$). For energies much greater than $m\alpha^2$ and $\zpar$, the quasidegeneracy condition is met: $\delta S{\ll}S$, hence we may apply the quantization rule of \qq{eq:rule}{eq:H1} in the subsequent analysis. 
